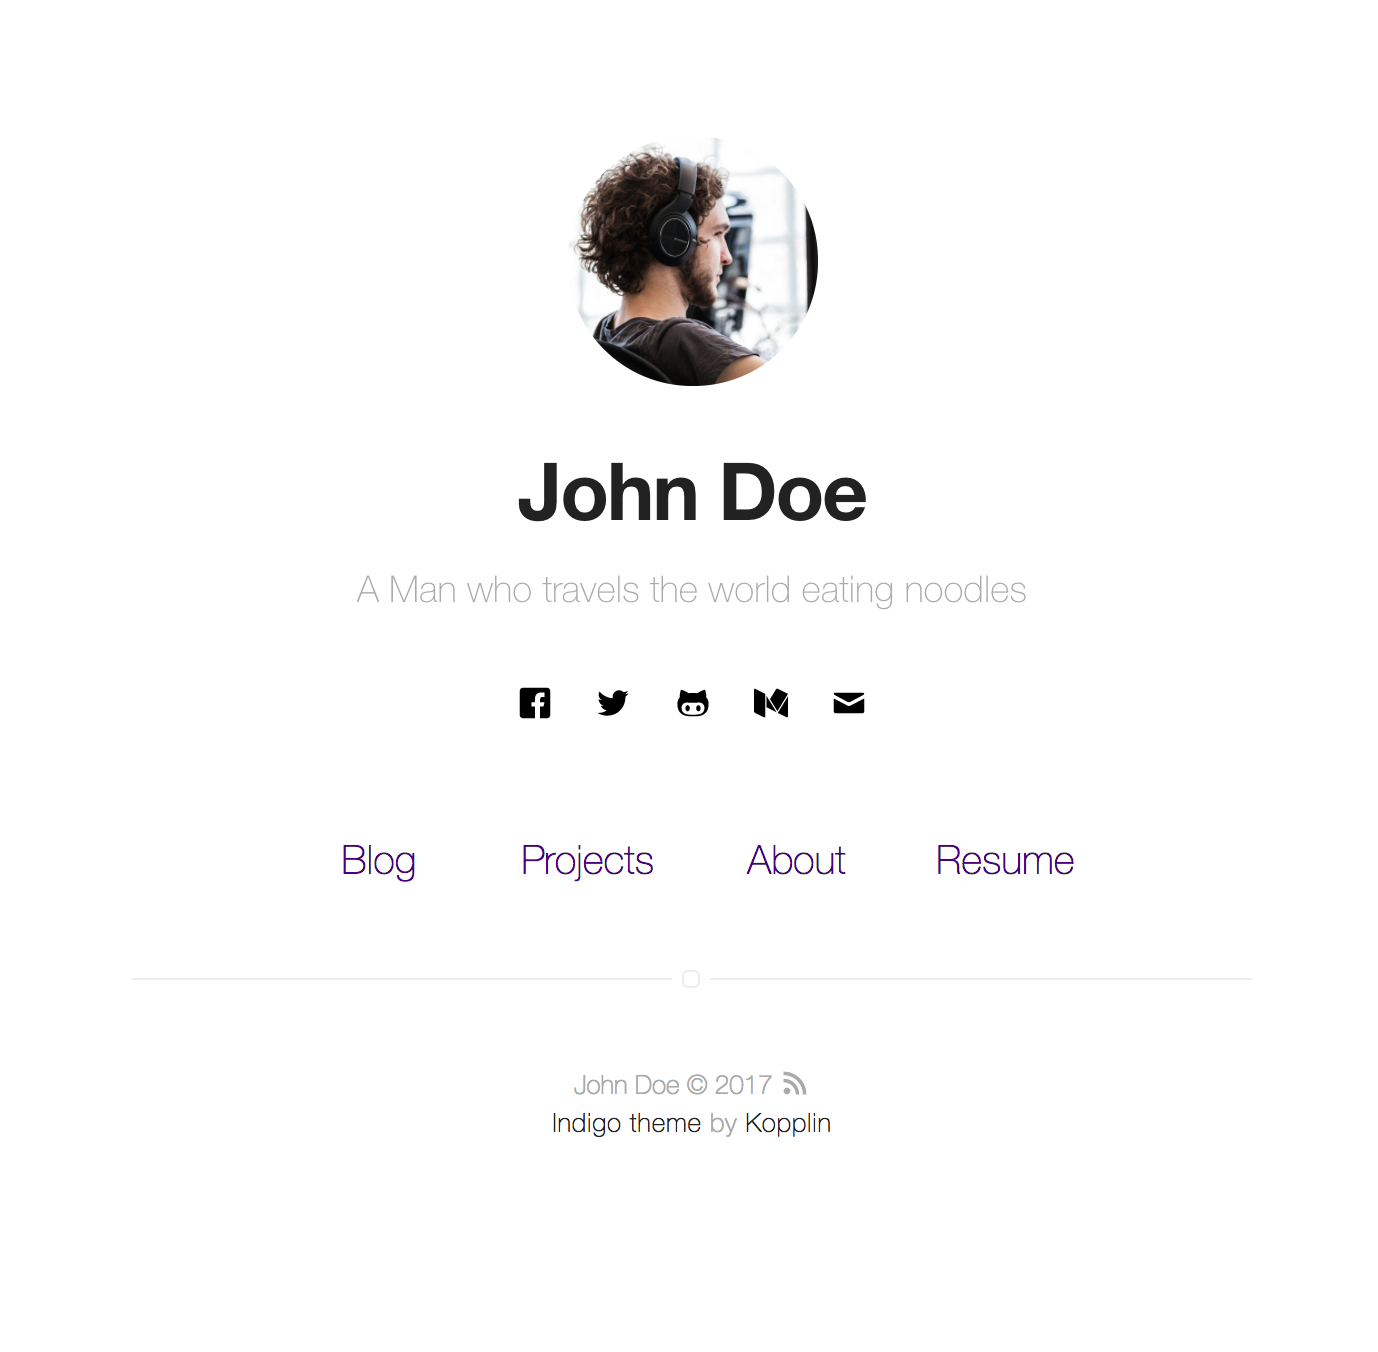
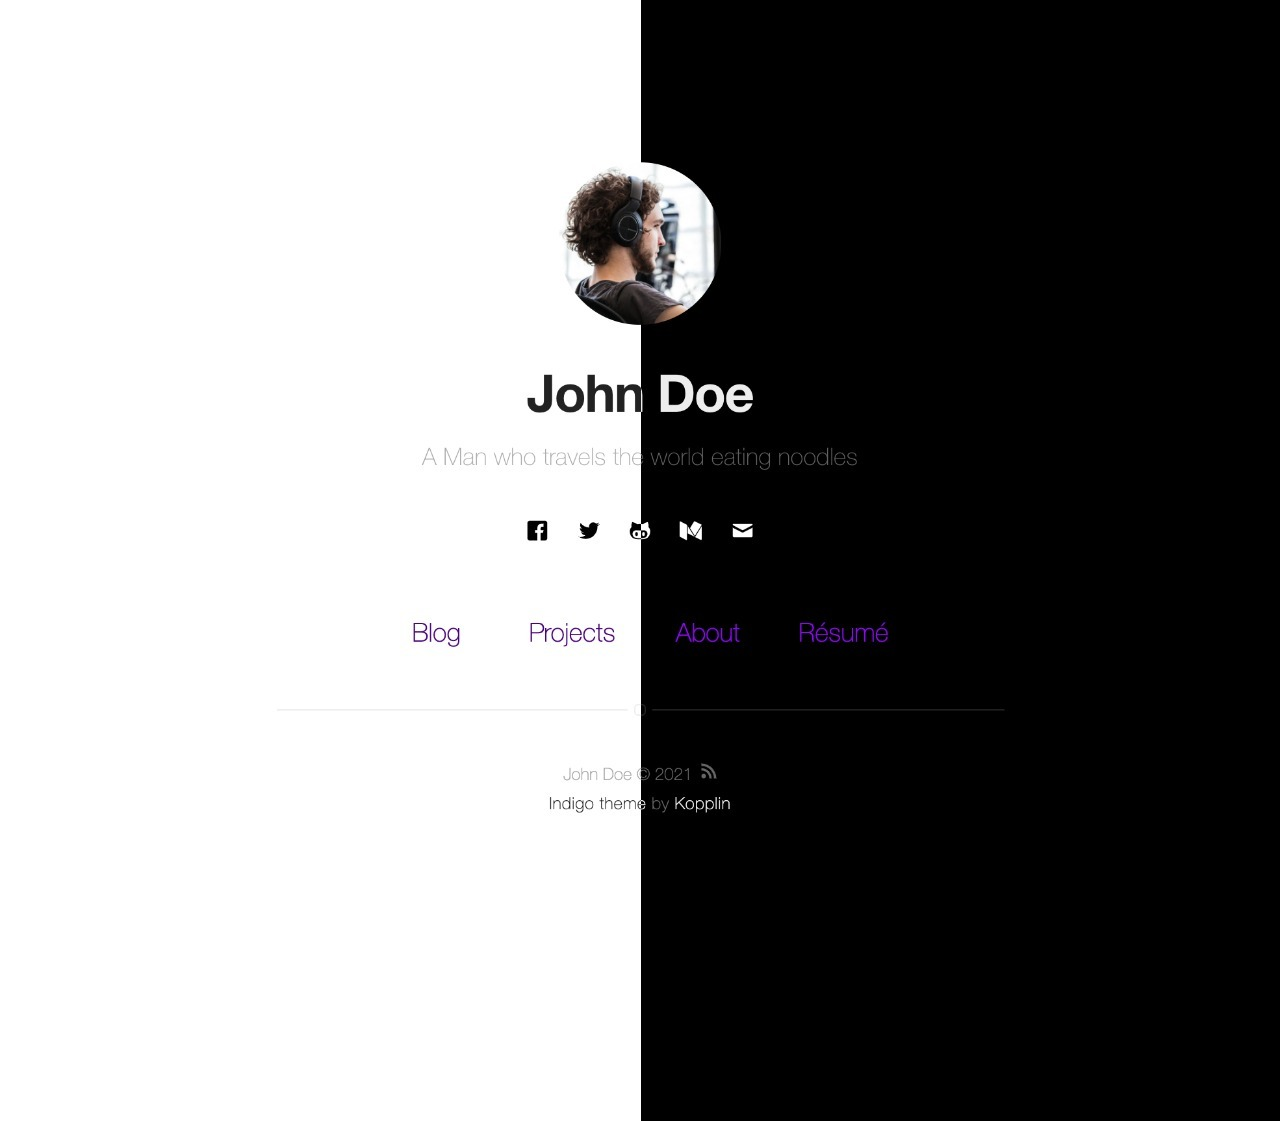
feat: adds dark theme (#484)
* feat: adds dark theme

* chore: updates screen shot

* docs: updates

diff --git a/_sass/components/others.sass b/_sass/components/others.sass
@@ -1,12 +1,12 @@
 .evidence
-    background-image: linear-gradient(to bottom, rgba(39,243,106,0.15), rgba(39,243,106,0.15))
+    background-image: linear-gradient(to bottom, $kappa, $kappa)
     color: $beta
 
 .star
     > .url > .title
         width: auto !important
         display: inline
-        background-image: linear-gradient(rgba(39,243,106,0.15), rgba(39,243,106,0.15))
+        background-image: linear-gradient($kappa, $kappa)
 
 .twitter-tweet
     margin: 10px auto
@@ -15,9 +15,9 @@
     display: inline-block
     width: 17px
     height: 17px
-    fill: #000
+    fill: $zeta
     text-align: center
-    color: #000
+    color: $gama
     margin: 7px auto
 
 .caption

diff --git a/_includes/style-dark.scss b/_includes/style-dark.scss
@@ -1,0 +1,24 @@
+
+@import "base/variables-dark";
+@import "base/normalize";
+@import "base/syntax";
+@import "base/general";
+@import "base/helpers";
+
+@import "pages/home-blog-projects";
+@import "pages/page";
+@import "pages/post";
+@import "pages/tags";
+
+@import "components/author";
+@import "components/disqus";
+@import "components/footer";
+@import "components/header";
+@import "components/nav";
+@import "components/others";
+@import "components/pagination";
+@import "components/related";
+@import "components/share";
+@import "components/side-by-side";
+@import "components/social-links";
+@import "components/spoiler";

diff --git a/_sass/base/variables-dark.sass b/_sass/base/variables-dark.sass
@@ -1,14 +1,14 @@
 $fontSans: "Helvetica Neue", Helvetica, Arial, sans-serif
 $fontMonospace: "Consolas", Liberation Mono, Menlo, Courier, monospace
 
-$alpha: #666
-$beta: #222
-$gama: #aaa
-$delta: #4b0082
-$epsilon: #ededed
-$omega: #fff
-$zeta: #000
-$kappa: #27f36a26
+$alpha: #aaa
+$beta: #ededed
+$gama: #666
+$delta: #9300ff
+$epsilon: #222
+$omega: #000
+$zeta: #fff
+$kappa: #1E2D24
 
 $mobile: "only screen and (max-width: 400px)"
 $tablet: "only screen and (min-width: 400px) and (max-width: 1050px)"

diff --git a/_layouts/default.html b/_layouts/default.html
@@ -21,7 +21,12 @@ layout: compress
     <link rel="alternate" type="application/rss+xml" title="{{ site.title }}" href="{{ site.url }}{{ "/feed.xml" }}" />
 
     <style>
-    {% capture scss_sheet %}{% include style.scss %}{% endcapture %}
+    {% if site.dark-theme %}
+        {% capture scss_sheet %}{% include style-dark.scss %}{% endcapture %}
+    {% else %}
+        {% capture scss_sheet %}{% include style.scss %}{% endcapture %}
+    {% endif %}
+
     {{ scss_sheet | scssify }}
     </style>
 

diff --git a/_sass/base/general.sass b/_sass/base/general.sass
@@ -4,6 +4,7 @@ body, html
 body
 	font: 16px $fontSans
 	color: $alpha
+	background: $omega
 
 h1, h2, h3, h4
 	font-family: $fontSans
@@ -104,7 +105,7 @@ tt
 	font-family: $fontMonospace
 	font-size: 12px
 	line-height: 20px
-	background: #fff
+	background: $omega
 	border-radius: 2px
 
 pre
@@ -116,7 +117,7 @@ pre
 	font-size: 1.2rem
 	line-height: 2rem
 	overflow: auto
-	background: #fff
+	background: $omega
 	border: 1px solid $epsilon
 	border-radius: 2px
 

diff --git a/_sass/components/social-links.sass b/_sass/components/social-links.sass
@@ -28,8 +28,8 @@
             margin: 0 auto
             font-size: 13px
             padding: 3px 10px
-            background: $beta
-            color: #fff
+            background: $zeta
+            color: $omega
             border-radius: 2px
             height: 22px
             line-height: 22px

diff --git a/_sass/pages/home-blog-projects.sass b/_sass/pages/home-blog-projects.sass
@@ -19,8 +19,8 @@
             top: -5px
             left: 50%
             margin-left: -5px
-            background: #FFF
-            box-shadow: #FFF 0 0 0 5px
+            background: $omega
+            box-shadow: $omega 0 0 0 5px
             border-radius: 3px
 
 .home > .list,

diff --git a/_sass/pages/tags.sass b/_sass/pages/tags.sass
@@ -17,8 +17,8 @@
             top: -5px
             left: 50%
             margin-left: -5px
-            background: #FFF
-            box-shadow: #FFF 0 0 0 5px
+            background: $omega
+            box-shadow: $omega 0 0 0 5px
             border-radius: 3px
 
 .tags > .list

diff --git a/_sass/components/footer.sass b/_sass/components/footer.sass
@@ -18,8 +18,8 @@
         top: -5px
         left: 50%
         margin-left: -5px
-        background: #FFF
-        box-shadow: #FFF 0 0 0 5px
+        background: $omega
+        box-shadow: $omega 0 0 0 5px
         border-radius: 3px
 
     > .copyright

diff --git a/_sass/components/share.sass b/_sass/components/share.sass
@@ -55,7 +55,7 @@
         background: #ff4500
 
     svg
-        fill: #fff
+        fill: $omega
         position: relative
         top: 3px	
         margin: 0	

diff --git a/README.md b/README.md
@@ -17,6 +17,10 @@
 </p>
 
 <p align="center">
+    Light and Dark themes.
+</p>
+
+<p align="center">
     <img src="https://raw.githubusercontent.com/sergiokopplin/indigo/gh-pages/assets/screen-shot.png" />
 </p>
 
